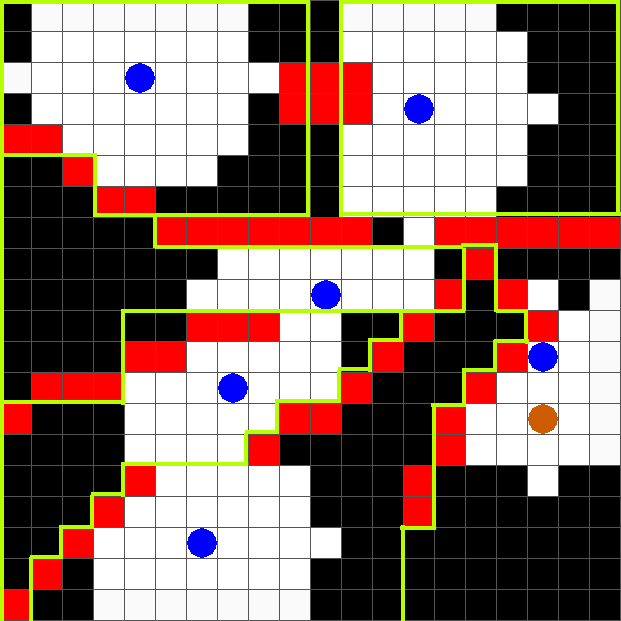
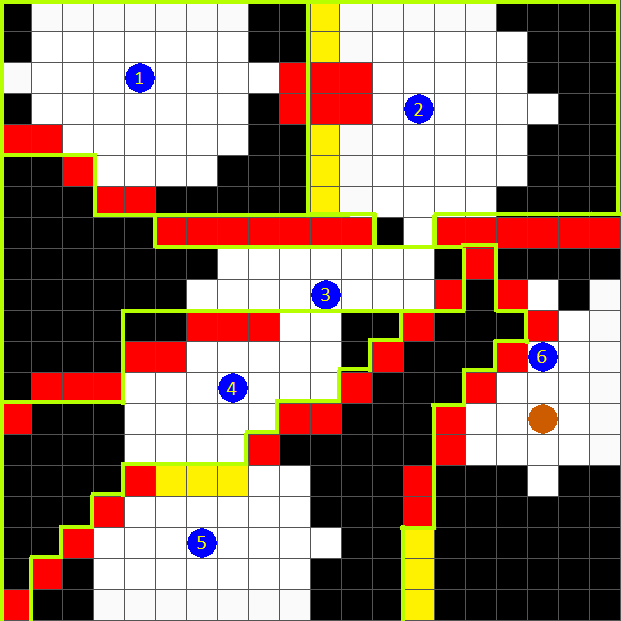
edited figs

diff --git a/paper/experiments.tex b/paper/experiments.tex
@@ -1,6 +1,7 @@
-We now return to the case study outlined in section \ref{sec:casestudy}. We analyze two scenarios. In figure \ref{fig:experiment}, we have 6 available mobile sensors. We compare the surveillance strategy with the situation in figure \ref{fig:3experiment} where we have only 3. Our surveillance task is $\LTLsquare \LTLdiamond p_5$, i.e, we need to infinitely often bring the belief of the target location to 5 cells or lower. 
+We now return to the case study outlined in section \ref{sec:casestudy}. We analyze two scenarios. In figure \ref{fig:experiment}, we have 6 available mobile sensors. We compare the surveillance strategy with the situation in figure \ref{fig:3experiment} where we have only 3. Our global surveillance task is $\LTLsquare \LTLdiamond p_5$, i.e, we need to infinitely often bring the belief of the target location to 5 cells or lower. 
 
 \begin{figure}
+	\centering
 \subfloat[The gridworld in \ref{fig:SGR-grid} partitioned into 6 subgames. \label{fig:experiment}]{
 \includegraphics[scale=0.18]{figs/SGR-grid-vis-part.png}
 \hspace{.3cm}}
@@ -9,10 +10,12 @@ We now return to the case study outlined in section \ref{sec:casestudy}. We anal
 \includegraphics[scale=0.18]{figs/SGR-grid-vis-part_3.png}
 \hspace{.3cm}}
 
-\caption{We look at the case where we have 6 mobile sensors in \ref{fig:experiment} and 3 mobile sensors \ref{fig:3experiment}\label{fig:bigexp}}. The mobile sensors or UAVs are blue circles and the target is represented in orange. The red cells represent impassable terrain (such as dense foliage) that cannot be seen through by the sensors. Black cells are locations not visible to any sensor.
+\caption{We look at the case where we have 6 mobile sensors in \ref{fig:experiment} and 3 mobile sensors \ref{fig:3experiment}\label{fig:bigexp}. The mobile sensors or UAVs are blue circles and the target is represented in orange. The red cells represent impassable terrain (such as dense foliage) that cannot be seen through by the sensors. Black cells are locations not visible to any sensor.}\vspace{-0.5cm}
 \end{figure} 
 
-Solving either case centralized is not computationally feasible as the state space grows exponentially with the number of sensors. We partition the multi-agent surveillance game into subgames as shown in Figures \ref{fig:experiment} and \ref{fig:3experiment}. We then solve each game individually in report the synthesis times in table \ref{tab:synthtime}.
+Solving either case centralized is not computationally feasible as the state space grows exponentially with the number of sensors. We partition the multi-agent surveillance game into subgames as shown in Figures \ref{fig:experiment} and \ref{fig:3experiment}. We then solve each game individually with local specifications $\locspec_i(\square \lozenge p_5)$
+
+We report the synthesis times in table \ref{tab:synthtime}.
 
 \begin{table}[h!]
 	\centering
